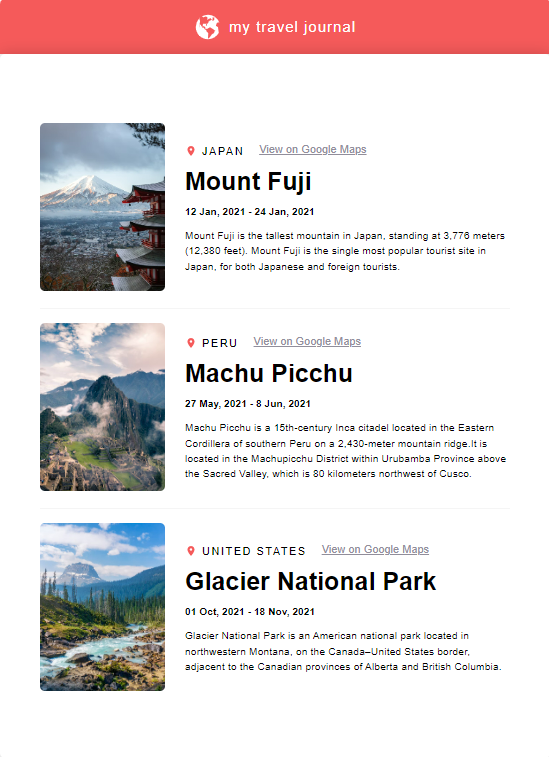
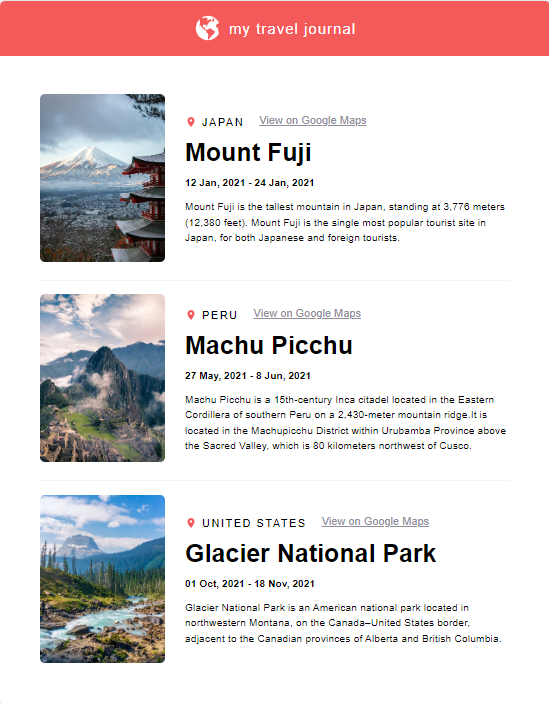
Enhance minor css and code

diff --git a/src/components/Contents.js b/src/components/Contents.js
@@ -6,13 +6,13 @@ export default function Content(props){
     return(
         <div className="travel-container">
             <div>
-                <img src={props.item.imageUrl} className="travel-img"/>
+                <img src={props.item.imageUrl} alt="my-travel-img" className="travel-img"/>
             </div>
             <div className="travel-text-container">
                 <div className="travel-location">
                     <MdLocationOn className="travel-local-icon"/>          
                     <p className="travel-location-city">{props.item.location.toUpperCase()}</p>
-                    <a href={`${props.item.googleMapsUrl}`}  target="_blank" className="travel-location-link">View on Google Maps</a>
+                    <a href={`${props.item.googleMapsUrl}`}  target="_blank" rel="noopener noreferrer nofollow" className="travel-location-link">View on Google Maps</a>
                 </div>
                 <div className="travel-info">
                     <div>

diff --git a/src/App.css b/src/App.css
@@ -1,5 +1,4 @@
-.main-travel-container{
-    padding-top: 55px;
+.main-travel-container {
     height: 704px;
     width: 550px;
     background-color: white;
@@ -9,4 +8,4 @@
     border-radius: 5px;
     overflow: hidden;
     box-shadow: 0px 0px 15px 0px rgba(0, 0, 0, 0.2);
-}
+  }

diff --git a/src/App.js b/src/App.js
@@ -16,11 +16,9 @@ function App() {
   }
 )
   return (
-    <div>
+    <div className="main-travel-container">
       <Navbar />
-      <div className="main-travel-container">     
-        {detail}
-      </div>
+      {detail}
     </div>
   );
 }

diff --git a/src/components/Navbar.css b/src/components/Navbar.css
@@ -18,6 +18,7 @@
     justify-content: center;
     align-items: center;
     color: #FFFF;
+    margin-bottom: 25px;
     
     border-top-left-radius: 5px;
     border-top-right-radius: 5px;

diff --git a/README.md b/README.md
@@ -15,6 +15,13 @@ Of course, I would travel there some day in future.
 ex : <img src={`../images/${props.item.coverImg}`} className="card--image" /> - passing JS into JSX
 ```
 
+```
+ex : <a ... target="_blank" rel="noopener noreferrer nofollow" ...>View on Google Maps</a>
+- noopener    : Ensure security which lets an attacker have partial access to the previous page.
+- noreferrer  : Prevent other pages from seeing that traffic came from origin link.
+- nofollow    : Avoid the influence on the search engine rankings of the destination URL.
+```
+
 # Screenshots
 <table class="tg">
 <thead>
@@ -26,7 +33,7 @@ ex : <img src={`../images/${props.item.coverImg}`} className="card--image" /> - 
 <tbody>
   <tr>
     <td class="tg-0lax"><img src="https://github.com/adrian95c/ss001-travel-journal/blob/main/screenshots/sample-task-screenshot.png?" alt="Sample-Task-Screenshot"></td>
-    <td class="tg-0lax"><br /><br /><img src="https://github.com/adrian95c/ss001-travel-journal/blob/main/screenshots/result-screenshot.png?" alt="Result-Screenshot"></td>
+    <td class="tg-0lax"><img src="https://github.com/adrian95c/ss001-travel-journal/blob/main/screenshots/result-screenshot.png?" alt="Result-Screenshot"></td>
   </tr>
 </tbody>
 </table>
